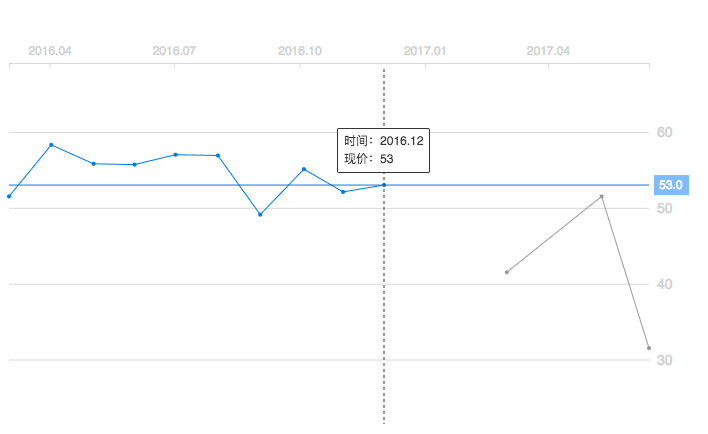
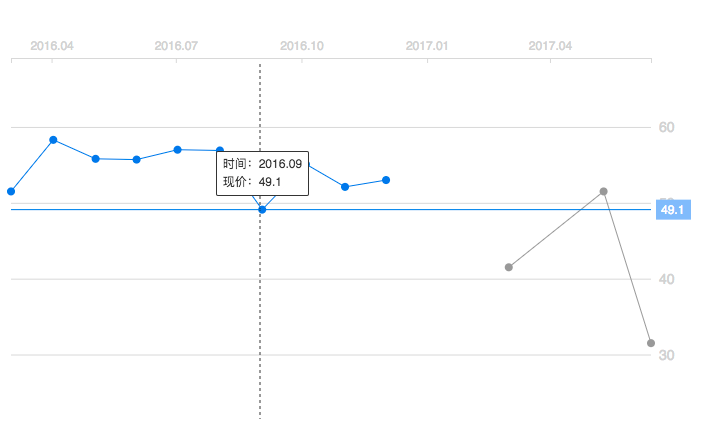
fix hover tooltip show bind on circle

diff --git a/src/index.js b/src/index.js
@@ -145,7 +145,7 @@ class LineChart {
      tchart.select(`.line-${prefix}`)
        .attr('d', line(data))
    }
-   
+
   /**
    * Render the chart against the given `data`.
    */
@@ -177,7 +177,7 @@ class LineChart {
         .enter()
         .append('circle')
         .attr('class', `dot ${prefix}`)
-        .attr('r', 2)
+        .attr('r', 4)
         .attr('cx', d => xScale(d.date))
         .attr('cy', d => yScale(d.value))
         .attr('fill', d => d.color)
@@ -239,11 +239,7 @@ class LineChart {
       .attr('transform', `translate(${w+10}, 0)`)
 
     this.chart
-      .append('rect')
-      .attr('width', w)
-      .attr('height', h)
-      .style("fill", "none")
-      .style("pointer-events", "all")
+      .selectAll('.dot')
       .on("mouseover", () => {
         moveLine.style('display', null)
       })
@@ -270,7 +266,9 @@ class LineChart {
             .text(`${parseFloat(y.value).toFixed(1)}`)
         }
         const circles = self.chart.selectAll('circle').nodes();
-        self.tooltip.show(circles[index], y)
+        if (circles && circles[index]) {
+          self.tooltip.show(circles[index], y)
+        }
       })
   }
   /**
